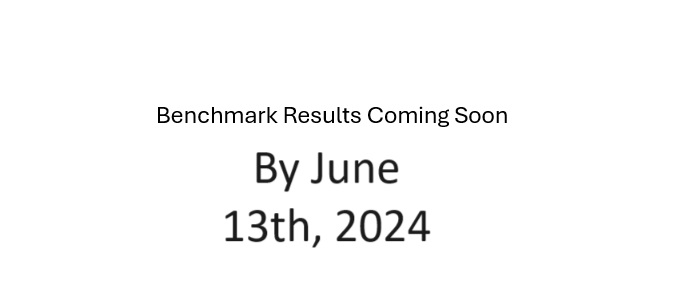
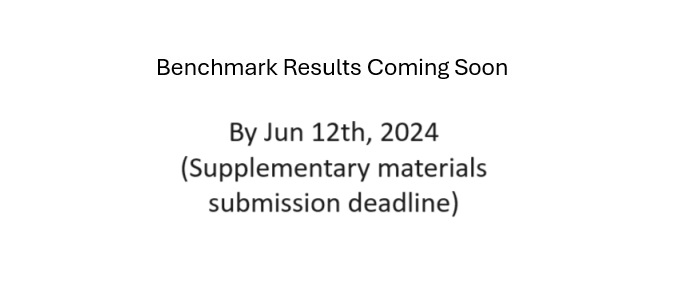
upload ddl

Changed region(s): [[0.2463, 0.5333, 0.739, 0.8702], [0.2155, 0.3649, 0.7698, 0.5053], [0.2155, 0.1965, 0.7698, 0.2807]]

diff --git a/soon.html b/soon.html
@@ -2,7 +2,7 @@
   <div class="topleft">
   </div>
   <div class="middle">
-    <h1>coming soon by June 13th</h1>
+    <h1>coming soon by June 12th, 2024 (Supplementary materials submission deadline)</h1>
     <hr>
   </div>
   <div class="bottomleft">
